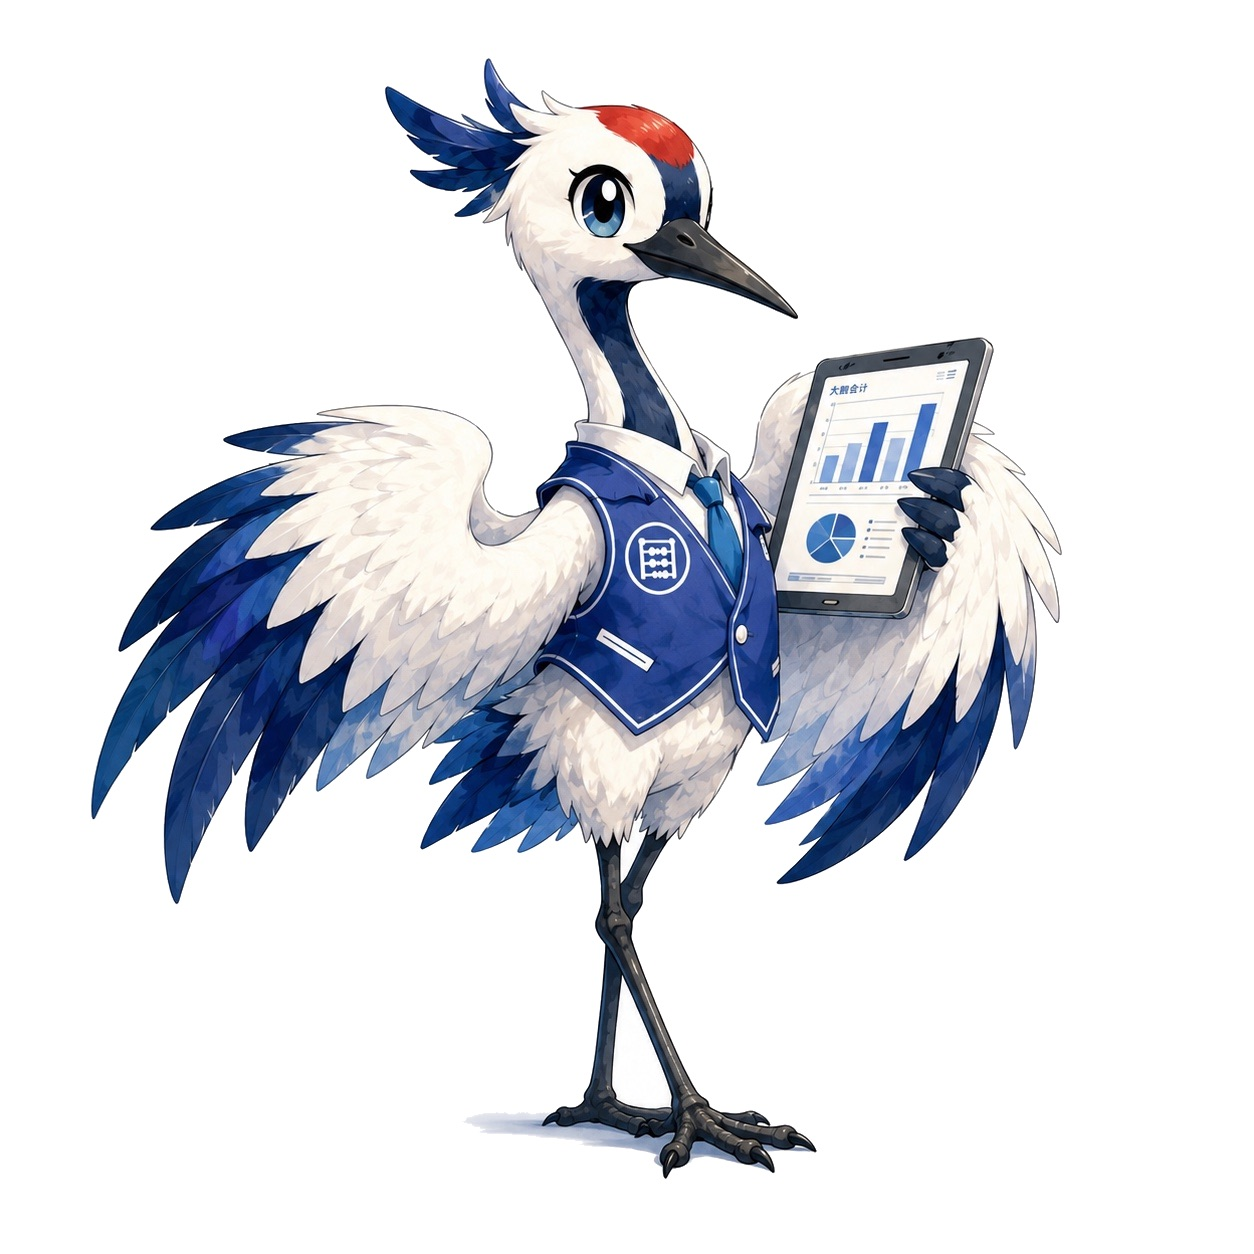
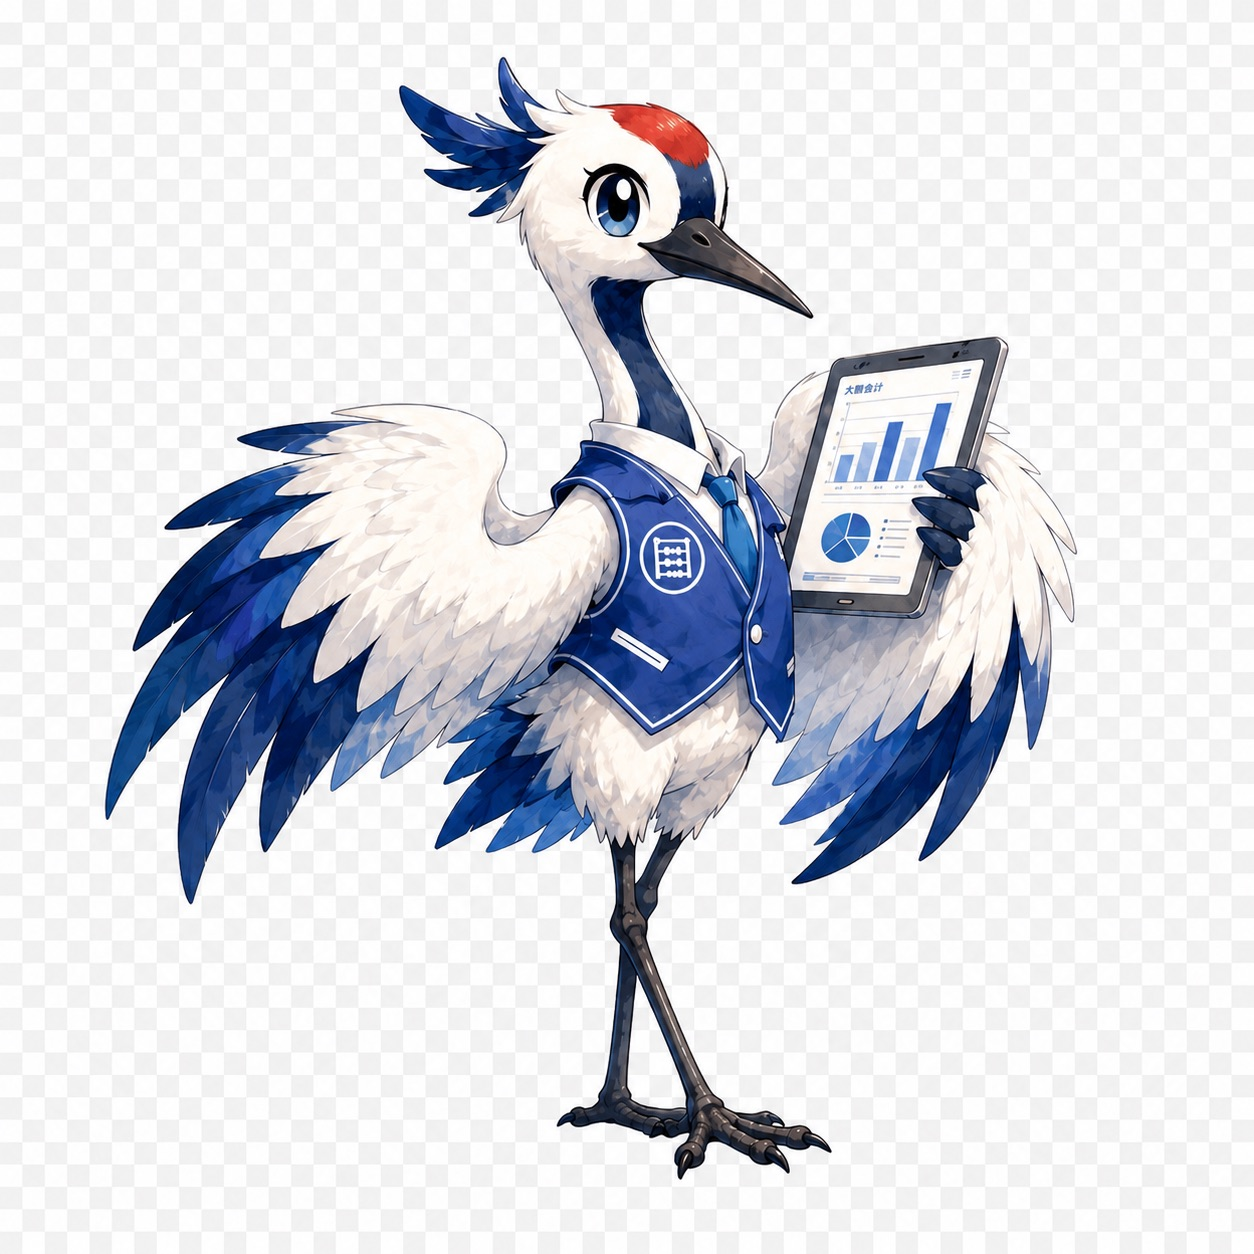
Add files via upload

Changed region(s): [[0.0622, 0.0311, 0.8708, 0.933]]

diff --git a/app/page.tsx b/app/page.tsx
@@ -318,43 +318,47 @@ export default function Home() {
   };
 
   const handleBatchAnalyze = async () => {
-    if (batchItems.length === 0) return;
+    const pending = batchItems.filter(b => b.status === 'pending');
+    if (pending.length === 0) return;
     setBatchAnalyzing(true);
-    setBatchProgress(0);
 
-    // Mark all as analyzing
-    setBatchItems(prev => prev.map(it => ({ ...it, status: 'analyzing' as const })));
+    // Process one by one using /api/analyze (avoids Vercel 10s timeout)
+    for (let i = 0; i < batchItems.length; i++) {
+      const item = batchItems[i];
+      if (item.status !== 'pending') continue;
 
-    const fd = new FormData();
-    batchItems.forEach(it => fd.append('images', it.file));
+      // Mark this item as analyzing
+      setBatchItems(prev => prev.map((b, idx) =>
+        idx === i ? { ...b, status: 'analyzing' as const } : b
+      ));
 
-    try {
-      const res = await fetch('/api/batch-analyze', { method: 'POST', body: fd });
-      const { results } = await res.json();
+      try {
+        const fd = new FormData();
+        fd.append('image', item.file);
+        const res = await fetch('/api/analyze', { method: 'POST', body: fd });
+        const r = await res.json();
 
-      setBatchItems(prev => prev.map((it, i) => {
-        const r = results?.[i];
-        if (!r) return { ...it, status: 'error' as const };
-        return {
-          ...it,
-          status: r.error ? 'error' as const : 'done' as const,
-          date: r.date, merchant: r.merchant, amount: r.amount,
-          confidence: r.confidence, tax_rate: r.tax_rate,
-          tax_amount: r.tax_amount, amount_before_tax: r.amount_before_tax,
-          invoice_number: r.invoice_number,
-          debit_account: r.debit_account, editDebit: r.debit_account,
-          credit_account: r.credit_account, editCredit: r.credit_account,
-          error: r.error,
-        };
-      }));
-      setBatchDoneCount(results?.length ?? 0);
-      playComplete();
-    } catch {
-      setBatchItems(prev => prev.map(it => ({ ...it, status: 'error' as const })));
-    } finally {
-      setBatchAnalyzing(false);
-      setBatchProgress(100);
+        setBatchItems(prev => prev.map((b, idx) =>
+          idx === i ? {
+            ...b,
+            status: 'done' as const,
+            date: r.date, merchant: r.merchant, amount: r.amount,
+            confidence: r.confidence, tax_rate: r.tax_rate,
+            tax_amount: r.tax_amount, amount_before_tax: r.amount_before_tax,
+            invoice_number: r.invoice_number,
+            debit_account: r.debit_account, editDebit: r.debit_account,
+            credit_account: r.credit_account, editCredit: r.credit_account,
+          } : b
+        ));
+      } catch {
+        setBatchItems(prev => prev.map((b, idx) =>
+          idx === i ? { ...b, status: 'error' as const } : b
+        ));
+      }
     }
+
+    setBatchAnalyzing(false);
+    playComplete();
   };
 
   const saveBatchItem = async (idx: number, cat: typeof CATS[number]) => {
@@ -630,7 +634,8 @@ export default function Home() {
                         )}
                         {batchAnalyzing && (
                           <div className="flex items-center justify-center gap-2 py-3 text-indigo-500">
-                            <Loader2 size={18} className="animate-spin" />{t.batchProgress}
+                            <Loader2 size={18} className="animate-spin" />
+                            {t.batchProgress}（{batchItems.filter(b => b.status === 'done' || b.status === 'error').length} / {batchItems.length}）
                           </div>
                         )}
                         {batchItems.some(b => b.status === 'done' && !b.saved) && !batchAnalyzing && (